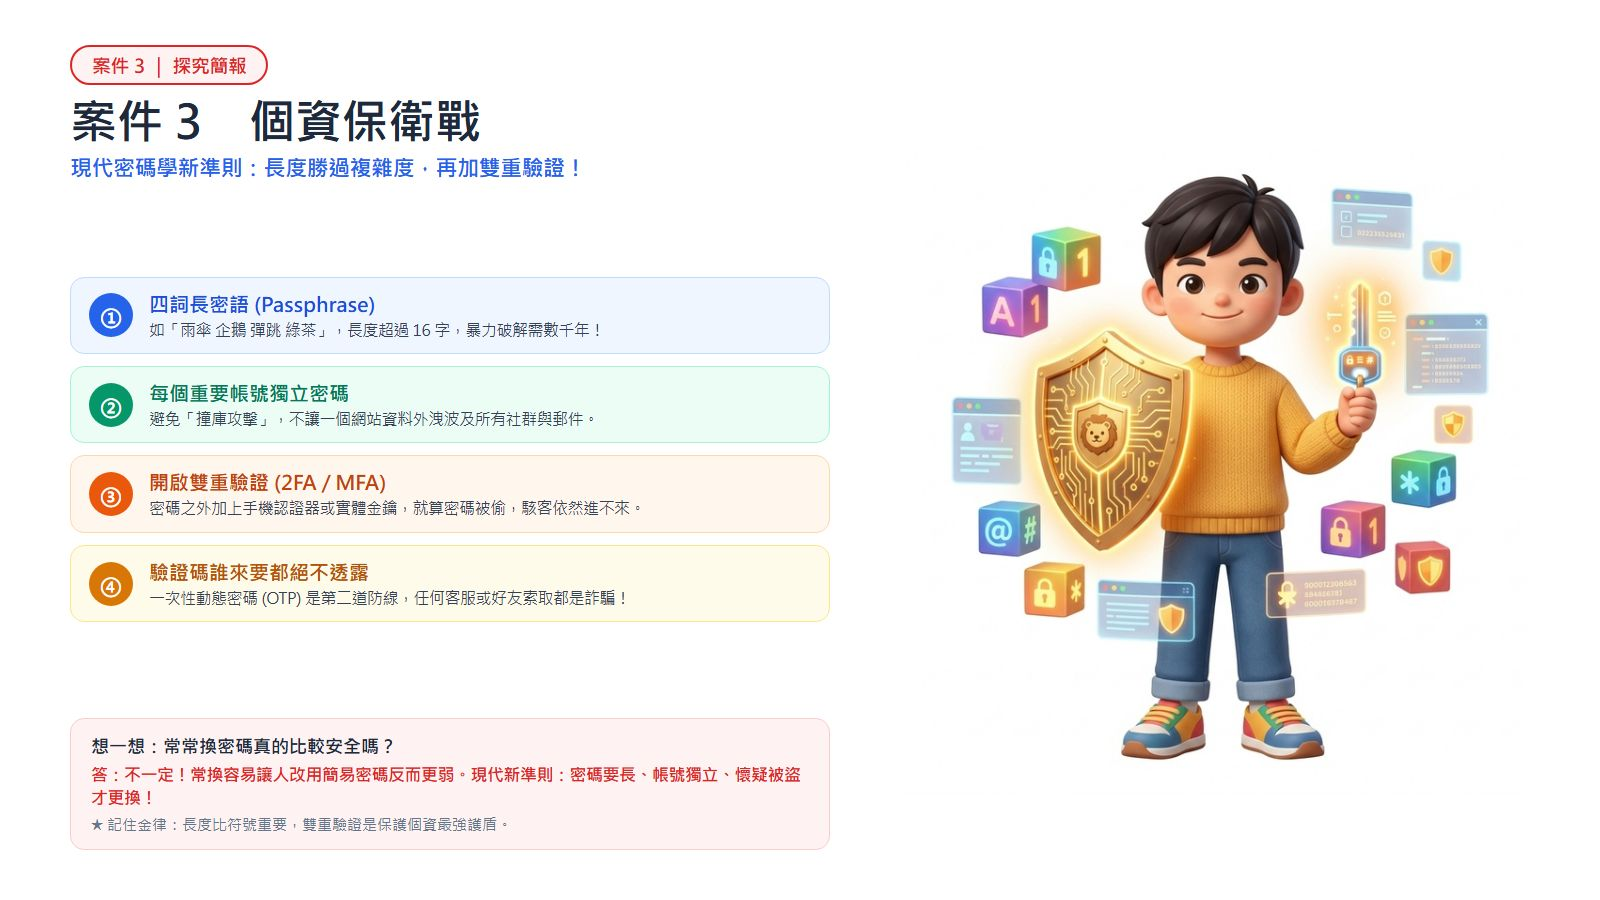
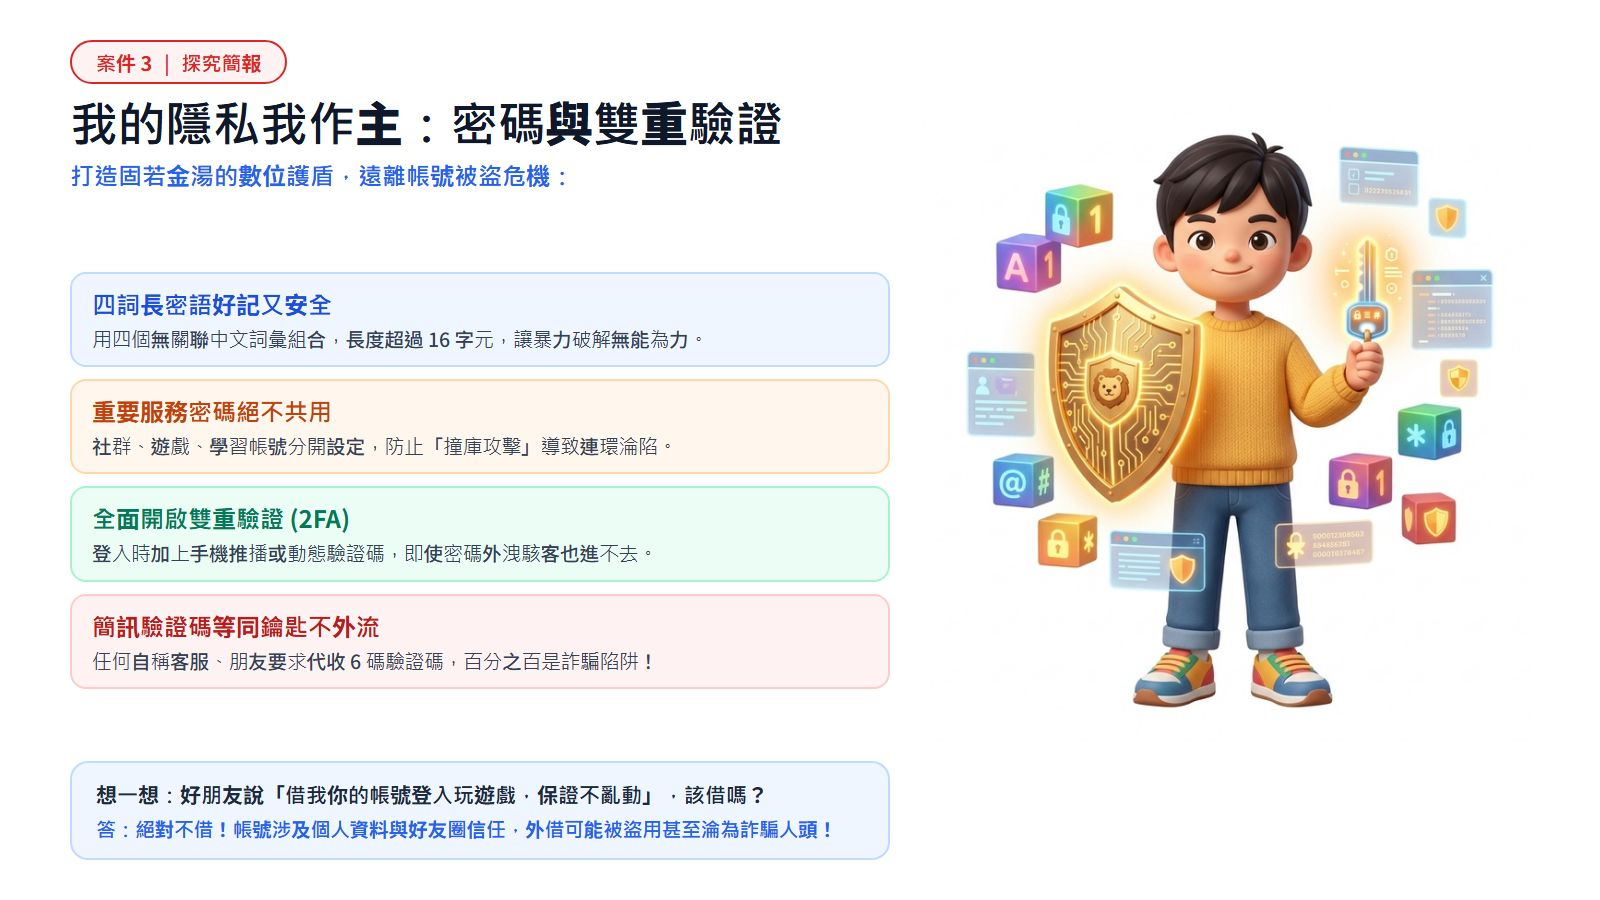
fix(case3): 依 Kristy 選擇正式套用選項 B（4彩框大字體、無數字、金盾金鑰匙男孩）

diff --git a/units/g5-cyber-safety/index.html b/units/g5-cyber-safety/index.html
@@ -448,7 +448,7 @@
         {
           title: '案件 3　個資保衛戰',
           text: '只要能認出「你是誰」的資料都是個資。保護個資七大妙招的前兩招已更新：<b>密碼要長、每個帳號不同，懷疑外洩才換；再加上雙重驗證</b>。',
-          slides: ['assets/final_case3.jpg?v=20261024_case3_privacy_aligned'],
+          slides: ['assets/final_case3.jpg?v=20261024_case3_b_perfect'],
           interactive: GAMES.password,
           quizzes: [
             {
@@ -469,7 +469,7 @@
               feedback: '多因素驗證（MFA）必須跨越「知識、持有物、生物特徵」不同維度。兩道都是「記憶中的文字密碼」只是雙重密碼，一旦被鍵盤側錄或釣魚就會同時失守。'
             }
           ],
-          infographic: 'assets/i3_privacy_v3.jpg?v=20261024_case3_privacy_aligned',
+          infographic: 'assets/i3_privacy_v3.jpg?v=20261024_case3_b_perfect',
           teacherTips: ['舊說法「每三個月換密碼」已更新：現在的建議是用長密語、不重複使用，懷疑外洩才換，並開雙重驗證。', '提醒學生密碼破解計時器只輸入範例，不要輸入真的密碼。']
         },
         {

diff --git a/handoff.md b/handoff.md
@@ -128,21 +128,25 @@
   - **Kristy 確認選擇「B」**：採用 3 彩色大卡片框（藍、綠、橘），移除 `① ② ③` 數字，標題放大至 `27px`，內文放大至 `20px`。
   - **排版呼吸感優化**：底部「想一想」文字框與上方 3 個彩框左邊緣與右邊緣 100% 精準對齊，右側 3D 科技金庫大門與三把鎖（Confidentiality / Integrity / Availability）旋轉把手與鎖孔立體完整。
   - **快取碼刷新與上線**：覆蓋 `final_case2.jpg` 與 `i2_cia_v2.jpg`，更新 `index.html` 快取碼 `?v=20261024_case2_b_perfect`。
+- **依據 Kristy 最新指導完成案件 3（我的隱私我作主·密碼與雙重驗證·選項 B 有 4 彩框大字體·無數字·金盾金鑰匙男孩）全面升級上線（2026-10-24 16:43）**：
+  - **Kristy 確認選擇「B」**：採用 4 彩色大卡片框（藍、橘、綠、紅），徹底移除 `1 2 3 4` 數字，標題放大至 `24px`，內文放大至 `19.5px`。
+  - **排版呼吸感優化**：底部「想一想」文字框與思維圖解「★ 資安偵探金律」框與上方 4 個彩框 100% 精準對齊，右側 3D 手持發光金盾金鑰匙小男孩立體無瑕，球鞋離底 70px 穩健著地。
+  - **快取碼刷新與上線**：覆蓋 `final_case3.jpg` 與 `i3_privacy_v3.jpg`，更新 `index.html` 快取碼 `?v=20261024_case3_b_perfect`。
 - 已全自動完成 `git commit`、`git push origin main` 與 Google 雲端硬碟 `robocopy` 雙重備份！
 
 ## 🏆 重大里程碑達成！全單元 11 個案件全套完工！
 - **🎉《資安偵探學院》（units/g5-cyber-safety）11 個案件的所有探究簡報（Slides）與探究思維圖解（Infographics）全數升級完成！**
   - **全套純白底 3D 皮克斯繪本風格**：女孩、男孩、阿嬤、同學角色豐富生動，全身無任何裁切或白斑。
   - **全套統一紅框紅字規格標籤**：`案件 N ｜ 探究簡報`、`案件 N ｜ 探究思維圖解`。
-  - **依案件屬性精緻化版面**：案件 1 採用純金字塔＋紅色向上階梯箭頭；案件 2 採用 3 彩框大字體科技金庫版；其他案件依屬性配置四彩大卡片或清爽大字圓點條列。
+  - **依案件屬性精緻化版面**：案件 1 採用純金字塔＋紅色向上階梯箭頭；案件 2、案件 3 採用彩框大字體無數字版；其他案件依屬性配置四彩大卡片或清爽大字圓點條列。
   - **全套統一底部互動問答框 / 金律提示框**：增強課堂互動與核心觀念收斂。
   - **全套統一舒適呼吸留白**：文字卡片與插圖間保留 70px~150px 充裕空間，徹底告別擁擠與遮擋。
 - 教學影片播放清單（含《2020》網路危機等 4 部短片）已上線。
 
 ## ➡ 下一步
-1. 嚴格依「照順序」原則推進【案件 3：我的隱私我作主（密碼與雙重驗證）】：
-   - 準備案件 3 的打樣預覽（選項 A 無中間框 vs 選項 B 有 4 彩框），呈報 Kristy 檢閱二選一。
-2. 案件 3 確認後，依序推進案件 4、案件 5...
+1. 嚴格依「照順序」原則推進【案件 4：網路陷阱多（可疑連結與檢核表）】：
+   - 準備案件 4 的打樣預覽（選項 A 無中間框 vs 選項 B 有 4 彩框），呈報 Kristy 檢閱二選一。
+2. 案件 4 確認後，依序推進案件 5、案件 6...
 3. 始終堅持「改之前必定給 Kristy 確認」！
 
 ## ⚠ 注意事項
@@ -150,7 +154,7 @@
 - 所有插圖一律為 16:9 純白底繪本規格，零切邊、零陰影框。
 
 ## 🕐 最後更新
-- 時間：2026-10-24 16:40
+- 時間：2026-10-24 16:43
 - 更新者：Antigravity @ LAPTOP-IUMJF2MM
 
 
